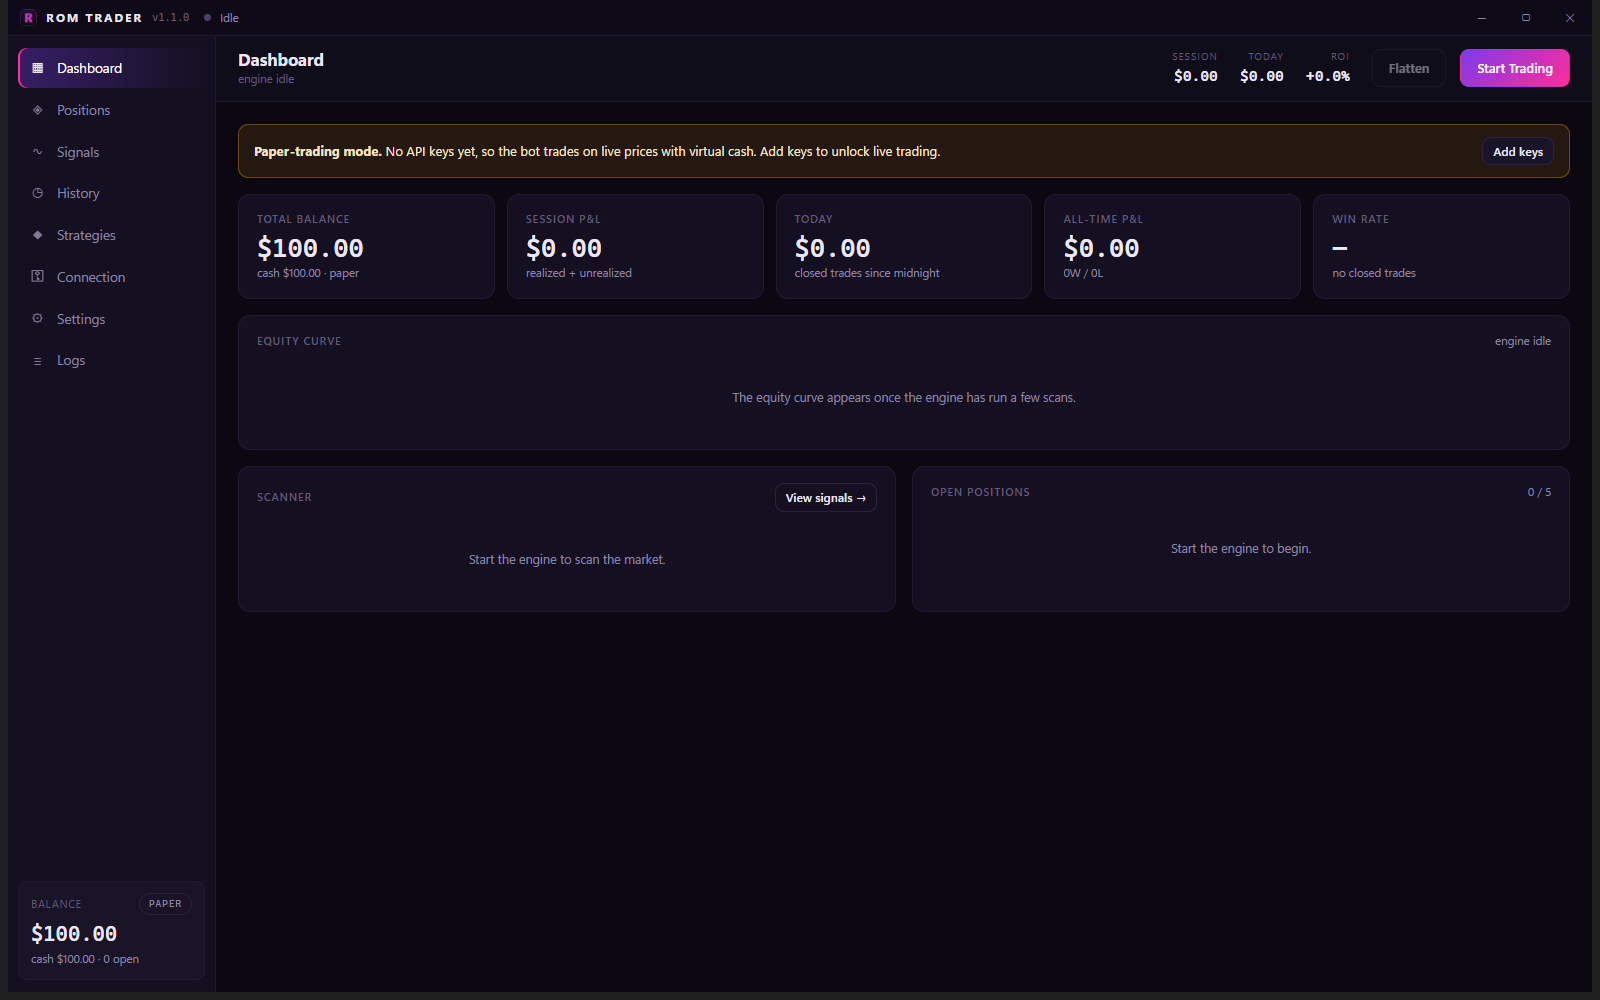
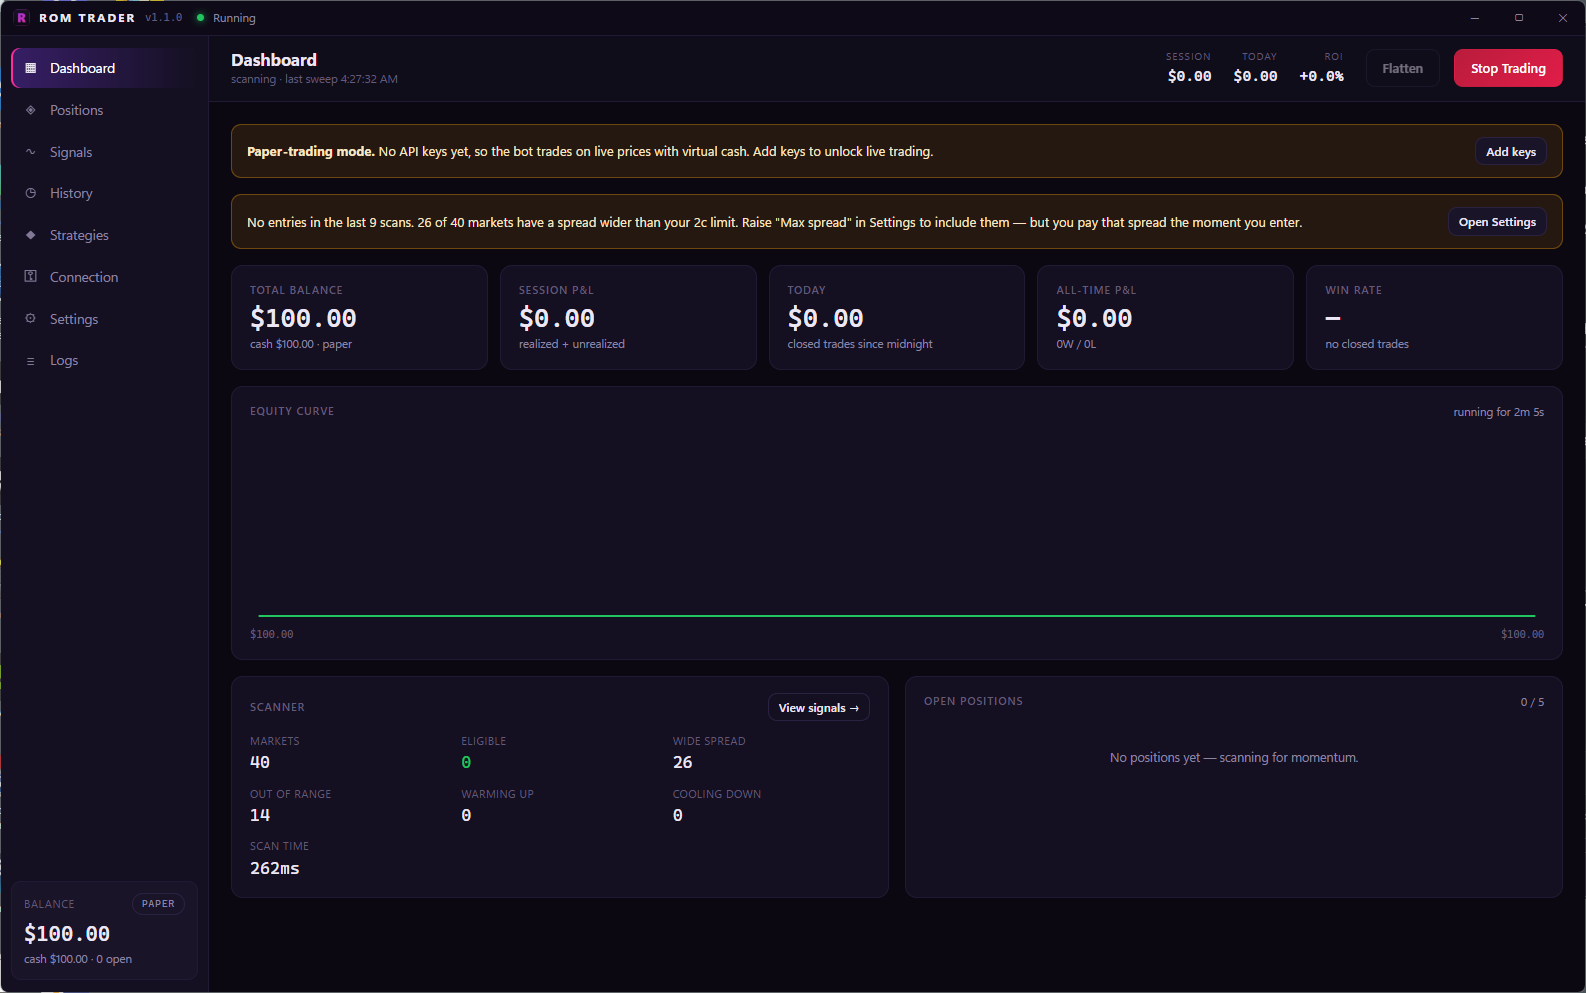
Real live-market screenshots, served as WebP
Replaces the single first-launch capture with two shots of the app actually
running against live Kalshi markets: the signals feed (real tickers, spreads,
momentum and the verdict column) and the dashboard with live scanner stats.
The signals shot is the one that evidences the "shows its work" claim, so it
leads.

Both are delivered through <picture> with WebP and a PNG fallback, roughly
half the bytes, with intrinsic dimensions declared and lazy loading so they
cost nothing above the fold and cannot shift layout.

scripts/make_shots.py regenerates them from raw window captures.

diff --git a/index.html b/index.html
@@ -529,6 +529,18 @@
     height: auto;
   }
 
+  .shot-lede {
+    max-width: 1060px;
+    margin: -8px auto 30px;
+    padding: 0 24px;
+    color: var(--muted);
+    font-size: 16px;
+  }
+
+  .shot-fig { margin: 0 0 40px; }
+
+  .shot-fig:last-child { margin-bottom: 0; }
+
   .shot-cap {
     margin-top: 14px;
     font-family: var(--mono);
@@ -655,13 +667,32 @@
 
 <section class="section" aria-labelledby="shot-h">
   <h2 class="section-label js-anim" id="shot-h">THE REAL THING</h2>
-  <div class="shot-wrap js-card">
-    <div class="shot-frame">
-      <img src="assets/rom-trader-dashboard.png"
-           alt="ROM Trader dashboard showing total balance, session and all-time P&amp;L, win rate, an equity curve, the market scanner and open positions"
-           width="1600" height="1000" loading="lazy" decoding="async">
-    </div>
-    <p class="shot-cap">Actual screenshot — ROM Trader v1.1.0 on first launch, before the engine is started.</p>
+  <p class="shot-lede js-anim">No mockups. This is the app running against live Kalshi markets.</p>
+
+  <div class="shot-wrap">
+    <figure class="shot-fig js-card">
+      <div class="shot-frame">
+        <picture>
+          <source srcset="assets/rom-trader-signals.webp" type="image/webp">
+          <img src="assets/rom-trader-signals.png"
+               alt="ROM Trader signals feed listing live Kalshi markets with bid and ask prices, spread, momentum, and a verdict column explaining why each market was skipped"
+               width="1586" height="993" loading="lazy" decoding="async">
+        </picture>
+      </div>
+      <figcaption class="shot-cap">Signals — every market the last sweep looked at, and exactly why each one did or didn’t qualify.</figcaption>
+    </figure>
+
+    <figure class="shot-fig js-card">
+      <div class="shot-frame">
+        <picture>
+          <source srcset="assets/rom-trader-dashboard.webp" type="image/webp">
+          <img src="assets/rom-trader-dashboard.png"
+               alt="ROM Trader dashboard showing balance, session and all-time profit and loss, win rate, an equity curve and live scanner statistics"
+               width="1586" height="993" loading="lazy" decoding="async">
+        </picture>
+      </div>
+      <figcaption class="shot-cap">Dashboard — balance, P&amp;L, equity curve and what the scanner is doing right now.</figcaption>
+    </figure>
   </div>
 </section>
 

diff --git a/scripts/make_shots.py b/scripts/make_shots.py
@@ -1,0 +1,54 @@
+"""
+Prepare product screenshots for the site.
+
+Takes the raw window captures and emits a web-sized PNG plus a WebP for each,
+so the page can serve WebP to browsers that take it and fall back cleanly.
+
+    python scripts/make_shots.py <capture-dir>
+"""
+
+from __future__ import annotations
+
+import sys
+from pathlib import Path
+
+from PIL import Image
+
+ROOT = Path(__file__).resolve().parent.parent
+ASSETS = ROOT / "assets"
+
+# Displayed at most ~1012px wide in the layout; 1600 covers 2x screens with room.
+TARGET_W = 1600
+
+SHOTS = {
+    "live-signals.png": "rom-trader-signals",
+    "live-dashboard.png": "rom-trader-dashboard",
+}
+
+
+def prepare(src: Path, stem: str) -> None:
+    img = Image.open(src).convert("RGB")
+    if img.width > TARGET_W:
+        h = round(img.height * TARGET_W / img.width)
+        img = img.resize((TARGET_W, h), Image.LANCZOS)
+
+    png = ASSETS / f"{stem}.png"
+    webp = ASSETS / f"{stem}.webp"
+    img.save(png, "PNG", optimize=True)
+    img.save(webp, "WEBP", quality=86, method=6)
+
+    print(
+        f"{stem}: {img.width}x{img.height}  "
+        f"png {png.stat().st_size:,}B  webp {webp.stat().st_size:,}B  "
+        f"({100 - webp.stat().st_size * 100 // png.stat().st_size}% smaller)"
+    )
+
+
+if __name__ == "__main__":
+    cap = Path(sys.argv[1])
+    for fname, stem in SHOTS.items():
+        p = cap / fname
+        if p.exists():
+            prepare(p, stem)
+        else:
+            print(f"missing: {p}")
